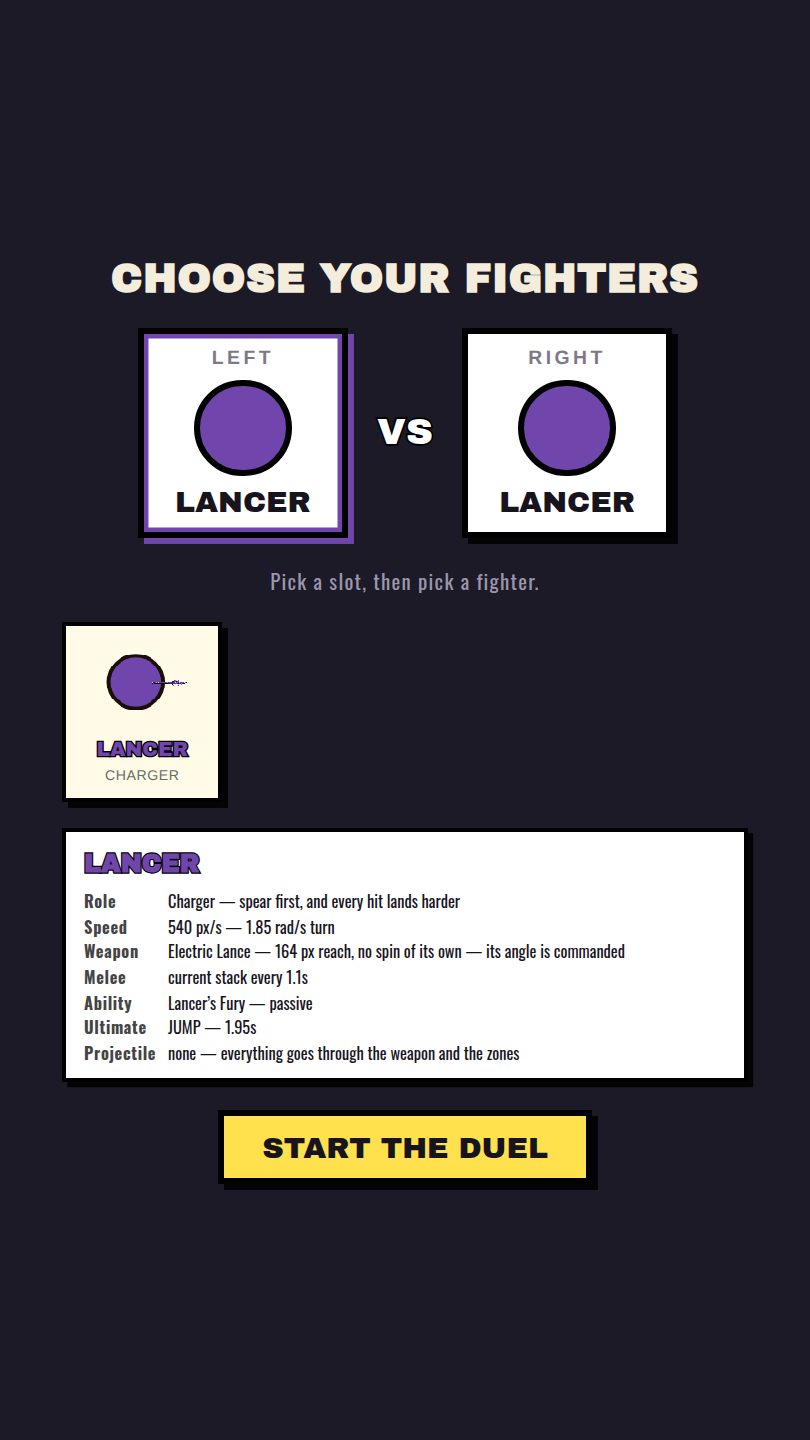
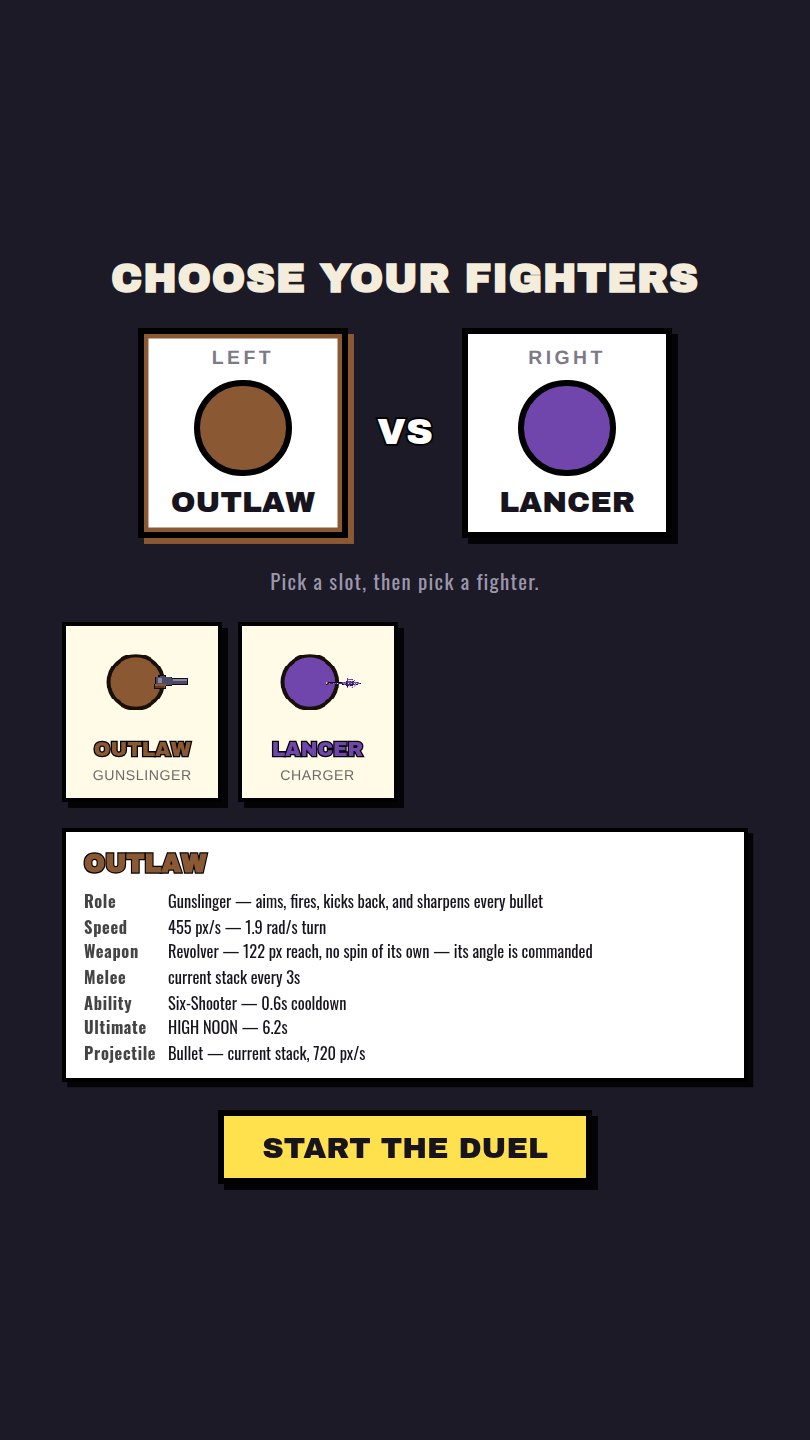
Réactive le Hors-la-loi
Un identifiant retiré de `DISABLED` — la manœuvre inverse de la réduction, et
elle n'a demandé que ça : `PLAYABLE` est dérivé, l'écran de sélection et le duel
par défaut le lisent, rien d'autre n'a bougé.

Le duel par défaut devient **Hors-la-loi contre Lancier** au lieu du miroir
Lancier contre Lancier, ce qui règle au passage l'illisibilité que la réduction
avait introduite : les deux billes sont brun et violet, on distingue enfin les
camps sans lire le HUD.

À savoir, et c'est le point : **le Lancier gagne ce duel 3-0, en 10 à 15
secondes**. C'est le 30/30 déjà signalé — une charge qui traverse toute l'arène
contre un adversaire qui pilote vers lui entre de lui-même dans le couloir. Le
duel est jouable, mais joué d'avance. Les leviers restent ceux notés dans
CLAUDE.md : `lunge.scanSpin` pour la fréquence de charge, et le retour à une
charge de longueur bornée plutôt qu'une traversée. Le rayon de hitbox n'en est
pas un — de 12 à 3 la cadence ne bouge presque pas, les charges ne frôlent pas,
elles traversent.

`lang-check` vert, aucune erreur console, capture de sélection régénérée. La
matrice n'est pas retouchée : `DISABLED` ne l'a jamais influencée, elle mesure
les onze depuis le début, et c'est ce qui rend cette réactivation gratuite.

Claude-Session: https://claude.ai/code/session_01Qq7UwkSQNKCFC8eP56ocmN

diff --git a/src/data/elements.js b/src/data/elements.js
@@ -2195,7 +2195,6 @@ export const DISABLED = deepFreeze([
   'lightning',
   'wind',
   'plant',
-  'outlaw',
   'bladesman',
 ]);
 

diff --git a/CLAUDE.md b/CLAUDE.md
@@ -269,8 +269,8 @@ La charge sur cap en donne davantage : à 16 le Lancier monte à 19 victoires su
 
 ## Roster réduit — temporaire
 
-**Seul le Lancier est jouable.** Les dix autres sont désactivés dans
-`elements.js` via `DISABLED`, le temps de travailler le Lancier seul.
+**Le Lancier et le Hors-la-loi sont jouables.** Les neuf autres sont
+désactivés dans `elements.js` via `DISABLED`.
 
 ```js
 // src/data/elements.js
@@ -297,10 +297,14 @@ même, `lang-check` continue de vérifier les onze fiches pour qu'une fiche
 désactivée ne pourrisse pas en silence. `tools/matrix-reference.txt` est donc
 **inchangée**, et c'est la preuve que la réduction n'a touché aucun équilibre.
 
-Conséquence à connaître : le duel par défaut est un **miroir**, Lancier contre
-Lancier. Il tourne, mais les deux camps sont visuellement identiques — même
-bille cuivre, même titre. Le HUD reste le seul repère (jauge et ligne de stat à
-gauche = camp A). Ça se résout tout seul à la réactivation.
+Le duel par défaut est **Hors-la-loi contre Lancier** (`PLAYABLE[0]` et
+`PLAYABLE[1]`, dans l'ordre de `ROSTER`). Les deux billes sont distinctes —
+brun contre violet — donc le miroir illisible d'avant n'est plus le cas nominal.
+
+**Le Lancier y gagne 3-0, en 10 à 15 secondes.** C'est le 30/30 signalé plus
+bas : une charge qui traverse l'arène contre un adversaire qui pilote vers lui.
+Le duel est donc jouable mais joué d'avance — à traiter avant d'aller plus loin
+dans les réactivations.
 
 ---
 
